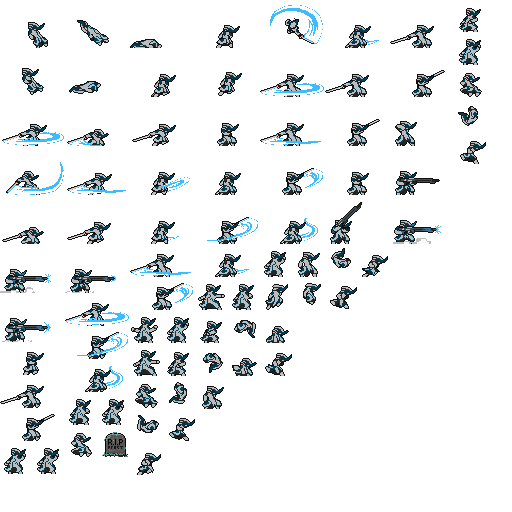
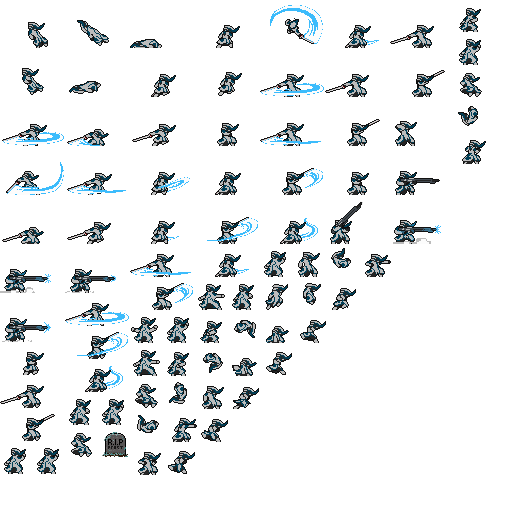
Add fists as a melee weapon

diff --git a/src/main/java/com/ezardlabs/lostsector/objects/weapons/melee/Fists.java b/src/main/java/com/ezardlabs/lostsector/objects/weapons/melee/Fists.java
@@ -1,0 +1,46 @@
+package com.ezardlabs.lostsector.objects.weapons.melee;
+
+import com.ezardlabs.dethsquare.Animation;
+import com.ezardlabs.dethsquare.Animation.AnimationListener;
+import com.ezardlabs.dethsquare.Animator;
+import com.ezardlabs.dethsquare.GameObject;
+import com.ezardlabs.dethsquare.TextureAtlas;
+import com.ezardlabs.dethsquare.animation.Animations;
+import com.ezardlabs.dethsquare.animation.Animations.Validator;
+import com.ezardlabs.lostsector.Game.DamageType;
+import com.ezardlabs.lostsector.objects.Player;
+import com.ezardlabs.lostsector.objects.Player.State;
+import com.ezardlabs.lostsector.objects.weapons.MeleeWeapon;
+
+public class Fists extends MeleeWeapon {
+
+	public Fists(GameObject wielder) {
+		super("Fists", DamageType.NORMAL, wielder);
+	}
+
+	@Override
+	public Animation[] getAnimations(TextureAtlas ta) {
+		Animation[] animations = Animations.load("animations/weapons/melee/fists", ta, new Validator("punch"));
+		animations[0].setAnimationListener(new AnimationListener() {
+			@Override
+			public void onAnimatedStarted(Animator animator) {
+			}
+
+			@Override
+			public void onFrame(Animator animator, int frameNum) {
+			}
+
+			@Override
+			public void onAnimationFinished(Animator animator) {
+				//noinspection ConstantConditions
+				animator.gameObject.getComponent(Player.class).state = State.IDLE;
+			}
+		});
+		return animations;
+	}
+
+	@Override
+	public String getNextAnimation(int direction) {
+		return "punch";
+	}
+}
